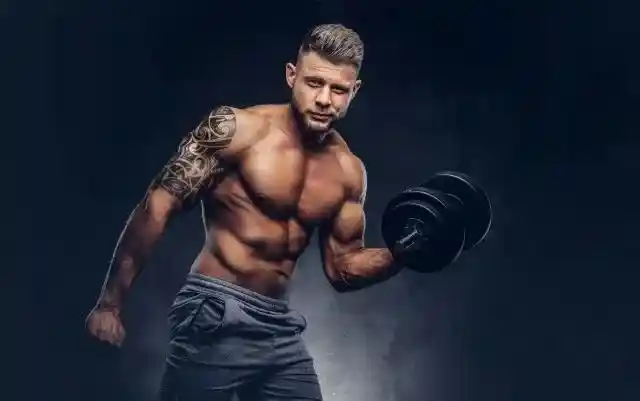
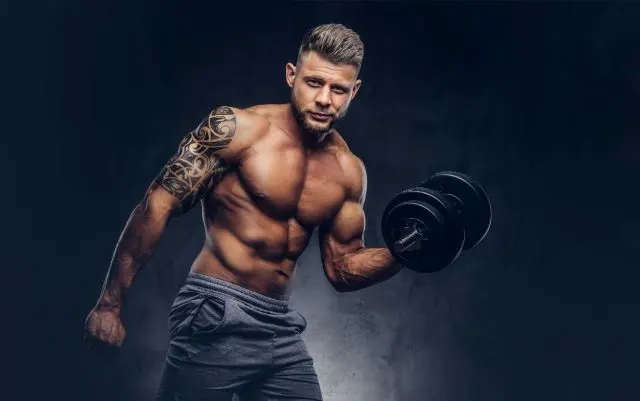
added lazy load to image

diff --git a/staticfiles/CACHE/css/output.b440383ab9a1.css b/staticfiles/CACHE/css/output.b440383ab9a1.css
@@ -1,0 +1,1 @@
+body{font-family:'Montserrat',sans-serif;background-color:black;color:#333;padding-top:80px}.navbar{background-color:black;box-shadow:0 2px 4px rgba(0,0,0,0.1);position:fixed;width:100%;top:0;background-color:rgba(255,255,255,0.9);backdrop-filter:blur(10px);box-shadow:0 2px 4px rgba(0,0,0,0.1);z-index:1000}.navbar-light .navbar-nav .nav-link{color:black}.navbar-light .navbar-nav .nav-link:hover{color:#FF5722}.navbar-toggler{border:none}header.hero-section{background-image:none;background-size:cover;background-position:center;min-height:400px;max-width:100%;object-fit:cover;text-align:center}.container.mt-4 img{width:100%;height:auto;min-height:300px}.container{margin-top:60px;max-width:1200px;margin-top:100px;padding:20px;border-radius:8px;box-shadow:0 4px 8px rgba(0,0,0,0.1)}ul{list-style-type:none}li{display:list-item;text-align:justify;unicode-bidi:isolate}ol,ul{padding-left:0}.card-body{padding:20px}.card-title{font-size:1.5rem}.card-text{font-size:1rem;color:black}.btn{font-size:1.1rem}.mt-3{margin-top:15px}.mb-4{margin-bottom:30px}.card{border:none;box-shadow:0 4px 8px rgba(0,0,0,0.05);transition:transform 0.2s ease-in-out,box-shadow 0.2s;list-style-type:none;border-radius:8px}.card:hover{transform:scale(1.02);box-shadow:0 6px 12px rgba(0,0,0,0.1)}.btn-outline-primary{color:black;background-color:gold;border:none}.btn-outline-primary:hover{color:black;background-color:silver;border:none}.btn-outline-secondary{color:black;background-color:#FF5722;border:none}.btn-outline-secondary:hover{color:black;background-color:silver;border:none}.btn-secondary{color:black;background-color:#FF5722;border:none}.btn-secondary:hover{color:#fff;background-color:#5c636a;border:#565e64}.btn-success{color:#fff;background-color:#FF5722;border:none;color:white}.btn-success:hover{color:silver;background-color:silver;border:none;color:black}.btn-primary{background-color:gold;border:none;margin-right:0px;color:black}.btn-primary:hover{background-color:silver;color:black}.card-img-top{width:300px;height:200px}.newsletter-signup{padding:20px;background-color:#f0f0f0;border-radius:5px;margin-top:30px}.newsletter-signup h2{font-size:24px;margin-bottom:10px;text-align:center}.newsletter-signup p{font-size:16px;margin-bottom:20px;color:black;text-align:center}.newsletter-signup form{display:flex;flex-direction:column}.newsletter-signup input[type="email"]{padding:10px;margin-bottom:10px;border-radius:5px;border:1px solid #ccc}.newsletter-signup button{padding:10px;background-color:silver;color:black;border:none;border-radius:5px;cursor:pointer}.newsletter-signup button:hover{background-color:gold}.spotlight,.subscription,.products,.wish,.community,.profile,.signout,.signin{color:#fff}.review_rule{color:#fff;padding-top:10px}p{margin-bottom:10px;color:#fff}.review_delete{color:black}.modal-header{background-color:silver;position:relative;flex:1 1 auto;padding:1rem;color:black;z-index:1;font-weight:bold}.modal-body{background-color:silver;position:relative;flex:1 1 auto;padding:1rem;z-index:1;color:black}.modal-footer{background-color:silver;position:relative;flex:1 1 auto;padding:1rem;z-index:1;font-weight:bold;display:flex;flex-shrink:0;flex-wrap:nowrap;justify-content:space-around;flex-direction:column}.popup{display:none;position:fixed;left:0;top:0;width:100%;height:100%;background-color:rgba(0,0,0,0.5);z-index:9999;text-align:center}.popup-content{background-color:#fff;border-radius:5px;padding:20px;margin-top:20%;display:inline-block;min-width:300px}.toast-body{padding:.75rem;word-wrap:break-word;background-color:rgba(255,217,0,0.732);color:black}.pop{background-color:gold;color:black}.close-btn{color:#aaa;font-size:28px;font-weight:bold;position:absolute;right:10px;top:0}.close-btn:hover,.close-btn:focus{color:black;text-decoration:none;cursor:pointer}.form-label{margin-bottom:.5rem;color:black;font-weight:bold}.contact{color:black}.cart-container{max-width:800px;margin:50px auto;padding:30px;background-color:#ffffff;border-radius:10px;box-shadow:0 8px 20px rgba(0,0,0,0.1);text-align:center}.cart_status{color:black}.cart-heading{font-size:2rem;margin-bottom:20px;color:#333}.cart-table{width:100%;border-collapse:collapse;margin-bottom:20px;background-color:#f9f9f9;border-radius:8px;overflow:hidden}.cart-table th,.cart-table td{padding:15px;border-bottom:1px solid #ddd;text-align:center}.cart-table th{background-color:#007bff;color:#fff;font-weight:bold}.cart-table tr:last-child td{border-bottom:none}.quantity-column{display:flex;justify-content:center;align-items:center}.quantity-input{width:60px;padding:8px;text-align:center;margin-right:10px;border:1px solid #ccc;border-radius:5px}.button-container{display:flex;flex-direction:column;gap:10px}.button-container-detail{display:flex;flex-direction:row;gap:10px}.button{padding:10px 15px;background-color:#007bff;color:#fff;border:none;border-radius:5px;cursor:pointer;transition:background-color 0.3s ease;font-size:1rem;text-decoration:none;display:inline-block}.button.remove{background-color:#dc3545}.button.update:hover,.button.remove:hover{background-color:#0056b3}.button.remove:hover{background-color:#c82333}.btn-signup{background-color:#fff}.total-cost{font-size:1.5rem;margin:20px 0;color:#333}.checkout-btn-container{text-align:center;margin-top:20px}.stripe-button{background-color:#28a745;padding:12px 25px;font-size:1.2rem;transition:background-color 0.3s ease}.stripe-button:hover{background-color:#218838}.server-error-page{display:flow;text-align:center;min-height:90vh;background-color:black;margin:0}.server-error-page h1{font-size:3rem}.server-error-text{margin-top:10px;color:#fff}.server-error-text a{color:#007bff;text-decoration:none}.server-error-text a:hover{text-decoration:underline}.private-li{padding-left:5%;list-style:disc;color:white}.privacy-text{color:#fff}.title{margin-bottom:.5rem;color:#fff}h1{color:#fff}@media (max-width:768px){.cart-container{padding:20px}.cart-table th,.cart-table td{padding:10px;font-size:0.9rem}.quantity-column{flex-direction:column}.quantity-input{margin-bottom:5px}}.cancel-container,.success-container{text-align:center;background-color:#ffffff;border-radius:8px;box-shadow:0 4px 10px rgba(0,0,0,0.1);padding:50px;max-width:50%;width:100%;align-content:center;flex-wrap:wrap;margin-left:auto;margin-right:auto}.cancel-container h1{font-size:2em;color:#dc3545;margin-bottom:15px}.cancel-container p{font-size:1.1em;margin-bottom:20px;color:#555}.button-group{display:flex;justify-content:space-between;gap:10px}.button-group a{text-decoration:none;color:#ffffff;padding:10px 20px;border-radius:5px;font-weight:bold;transition:background-color 0.3s ease;color:#fff;background-color:#FF5722;border:none;color:black}.button-group a:hover{background-color:#565e64}.button-group a.secondary{background-color:gold;color:black}.button-group a.secondary:hover{background-color:#565e64}.Thanks{color:black}.plan{color:black}.container.community-updates-newsletter{max-width:800px;margin:0 auto;padding:20px;font-family:Arial,sans-serif}.title-newsletter{text-align:center;margin-bottom:20px;color:#fff}.updates-list-newsletter{margin-bottom:40px}.update-newsletter{border-bottom:1px solid #ccc;padding:10px 0}.newsletter-section-newsletter{display:flex;flex-wrap:wrap;gap:20px;justify-content:space-between}.card-newsletter{flex:1 1 calc(50% - 10px);padding:20px;background-color:#f9f9f9;border:1px solid #ddd;border-radius:8px;box-shadow:0 2px 4px rgba(0,0,0,0.1)}.card-newsletter h2{margin-bottom:15px;font-size:1.2em;font-weight:bolder}.card-newsletter p{margin-bottom:20px;font-size:0.9em;color:black}.form-control-newsletter{width:100%;padding:10px;margin-bottom:10px;border:1px solid #ddd;border-radius:4px}.btn-newsletter{padding:10px 20px;font-size:1em;font-weight:bold;border:none;border-radius:4px;cursor:pointer;align-items:center}.btn-primary-newsletter{background-color:gold;color:black}.btn-danger-newsletter{background-color:#FF5722;color:black}.card-newsletter form{display:flex;flex-direction:column;align-items:center}.btn-newsletter{width:auto}.btn-warning:hover{background-color:silver;border:none}.btn-danger:hover{background-color:silver;border:none;color:black}.btn-danger{background-color:lightcoral;border:none;color:black}.profile-text{color:white;margin:15px 0px 20px 0px}.status{background-color:lightgreen;color:black}.resume{margin-bottom:10px;background-color:lightgreen;color:black}.request{margin-bottom:10px;background-color:lightgreen;color:black}.pause_alert{color:black}.pause_alert:hover{background-color:silver}.resume:hover{background-color:silver}.request:hover{background-color:silver}.cancel{color:black;background-color:lightcoral}.cancel:hover{background-color:silver;color:black}.upgrade:hover{background-color:silver;color:black}@media (max-width:768px){.newsletter-section-newsletter{flex-direction:column}.card-newsletter{flex:1 1 100%}}@media (max-width:576px){.container{margin-top:80px}.button-container-detail{display:flex;flex-direction:column;gap:10px}.btn{width:100%}.btn-outline-primary{color:black;background-color:gold;border:none;margin-bottom:30px;margin-top:10px}.btn-outline-secondary{color:black;background-color:#FF5722;border:none;margin-bottom:30px;margin-top:10px}}

diff --git a/staticfiles/CACHE/css/output.c1de74f77de9.css b/staticfiles/CACHE/css/output.c1de74f77de9.css
@@ -1,0 +1,1 @@
+body{font-family:'Montserrat',sans-serif;background-color:black;color:#333;padding-top:80px}.navbar{background-color:black;box-shadow:0 2px 4px rgba(0,0,0,0.1);position:fixed;width:100%;top:0;background-color:rgba(255,255,255,0.9);backdrop-filter:blur(10px);box-shadow:0 2px 4px rgba(0,0,0,0.1);z-index:1000}.navbar-light .navbar-nav .nav-link{color:black}.navbar-light .navbar-nav .nav-link:hover{color:#FF5722}.navbar-toggler{border:none}header.hero-section{background-image:none;background-size:cover;background-position:center;min-height:400px;max-width:100%;object-fit:cover;text-align:center}.container.mt-4 img{width:100%;height:auto;min-height:300px}.container{margin-top:0px;max-width:1200px;margin-top:100px;padding:0px;border-radius:8px;box-shadow:0 4px 8px rgba(0,0,0,0.1)}ul{list-style-type:none}li{display:list-item;text-align:justify;unicode-bidi:isolate}ol,ul{padding-left:0}.card-body{padding:20px}.card-title{font-size:1.5rem}.card-text{font-size:1rem;color:black}.btn{font-size:1.1rem}.mt-3{margin-top:15px}.mb-4{margin-bottom:30px}.card{border:none;box-shadow:0 4px 8px rgba(0,0,0,0.05);transition:transform 0.2s ease-in-out,box-shadow 0.2s;list-style-type:none;border-radius:8px}.card:hover{transform:scale(1.02);box-shadow:0 6px 12px rgba(0,0,0,0.1)}.btn-outline-primary{color:black;background-color:gold;border:none}.btn-outline-primary:hover{color:black;background-color:silver;border:none}.btn-outline-secondary{color:black;background-color:#FF5722;border:none}.btn-outline-secondary:hover{color:black;background-color:silver;border:none}.btn-secondary{color:black;background-color:#FF5722;border:none}.btn-secondary:hover{color:#fff;background-color:#5c636a;border:#565e64}.btn-success{color:#fff;background-color:#FF5722;border:none;color:white}.btn-success:hover{color:silver;background-color:silver;border:none;color:black}.btn-primary{background-color:gold;border:none;margin-right:0px;color:black}.btn-primary:hover{background-color:silver;color:black}.card-img-top{width:300px;height:200px}.newsletter-signup{padding:20px;background-color:#f0f0f0;border-radius:5px;margin-top:30px}.newsletter-signup h2{font-size:24px;margin-bottom:10px;text-align:center}.newsletter-signup p{font-size:16px;margin-bottom:20px;color:black;text-align:center}.newsletter-signup form{display:flex;flex-direction:column}.newsletter-signup input[type="email"]{padding:10px;margin-bottom:10px;border-radius:5px;border:1px solid #ccc}.newsletter-signup button{padding:10px;background-color:silver;color:black;border:none;border-radius:5px;cursor:pointer}.newsletter-signup button:hover{background-color:gold}.spotlight,.subscription,.products,.wish,.community,.profile,.signout,.signin{color:#fff}.review_rule{color:#fff;padding-top:10px}p{margin-bottom:10px;color:#fff}.review_delete{color:black}.modal-header{background-color:silver;position:relative;flex:1 1 auto;padding:1rem;color:black;z-index:1;font-weight:bold}.modal-body{background-color:silver;position:relative;flex:1 1 auto;padding:1rem;z-index:1;color:black}.modal-footer{background-color:silver;position:relative;flex:1 1 auto;padding:1rem;z-index:1;font-weight:bold;display:flex;flex-shrink:0;flex-wrap:nowrap;justify-content:space-around;flex-direction:column}.popup{display:none;position:fixed;left:0;top:0;width:100%;height:100%;background-color:rgba(0,0,0,0.5);z-index:9999;text-align:center}.popup-content{background-color:#fff;border-radius:5px;padding:20px;margin-top:20%;display:inline-block;min-width:300px}.toast-body{padding:.75rem;word-wrap:break-word;background-color:rgba(255,217,0,0.732);color:black}.pop{background-color:gold;color:black}.close-btn{color:#aaa;font-size:28px;font-weight:bold;position:absolute;right:10px;top:0}.close-btn:hover,.close-btn:focus{color:black;text-decoration:none;cursor:pointer}.form-label{margin-bottom:.5rem;color:black;font-weight:bold}.contact{color:black}.cart-container{max-width:800px;margin:50px auto;padding:30px;background-color:#ffffff;border-radius:10px;box-shadow:0 8px 20px rgba(0,0,0,0.1);text-align:center}.cart_status{color:black}.cart-heading{font-size:2rem;margin-bottom:20px;color:#333}.cart-table{width:100%;border-collapse:collapse;margin-bottom:20px;background-color:#f9f9f9;border-radius:8px;overflow:hidden}.cart-table th,.cart-table td{padding:15px;border-bottom:1px solid #ddd;text-align:center}.cart-table th{background-color:#007bff;color:#fff;font-weight:bold}.cart-table tr:last-child td{border-bottom:none}.quantity-column{display:flex;justify-content:center;align-items:center}.quantity-input{width:60px;padding:8px;text-align:center;margin-right:10px;border:1px solid #ccc;border-radius:5px}.button-container{display:flex;flex-direction:column;gap:10px}.button-container-detail{display:flex;flex-direction:row;gap:10px}.button{padding:10px 15px;background-color:#007bff;color:#fff;border:none;border-radius:5px;cursor:pointer;transition:background-color 0.3s ease;font-size:1rem;text-decoration:none;display:inline-block}.button.remove{background-color:#dc3545}.button.update:hover,.button.remove:hover{background-color:#0056b3}.button.remove:hover{background-color:#c82333}.btn-signup{background-color:#fff}.total-cost{font-size:1.5rem;margin:20px 0;color:#333}.checkout-btn-container{text-align:center;margin-top:20px}.stripe-button{background-color:#28a745;padding:12px 25px;font-size:1.2rem;transition:background-color 0.3s ease}.stripe-button:hover{background-color:#218838}.server-error-page{display:flow;text-align:center;min-height:90vh;background-color:black;margin:0}.server-error-page h1{font-size:3rem}.server-error-text{margin-top:10px;color:#fff}.server-error-text a{color:#007bff;text-decoration:none}.server-error-text a:hover{text-decoration:underline}.private-li{padding-left:5%;list-style:disc;color:white}.privacy-text{color:#fff}.title{margin-bottom:.5rem;color:#fff}h1{color:#fff}@media (max-width:768px){.cart-container{padding:20px}.cart-table th,.cart-table td{padding:10px;font-size:0.9rem}.quantity-column{flex-direction:column}.quantity-input{margin-bottom:5px}}.cancel-container,.success-container{text-align:center;background-color:#ffffff;border-radius:8px;box-shadow:0 4px 10px rgba(0,0,0,0.1);padding:50px;max-width:50%;width:100%;align-content:center;flex-wrap:wrap;margin-left:auto;margin-right:auto}.cancel-container h1{font-size:2em;color:#dc3545;margin-bottom:15px}.cancel-container p{font-size:1.1em;margin-bottom:20px;color:#555}.button-group{display:flex;justify-content:space-between;gap:10px}.button-group a{text-decoration:none;color:#ffffff;padding:10px 20px;border-radius:5px;font-weight:bold;transition:background-color 0.3s ease;color:#fff;background-color:#FF5722;border:none;color:black}.button-group a:hover{background-color:#565e64}.button-group a.secondary{background-color:gold;color:black}.button-group a.secondary:hover{background-color:#565e64}.Thanks{color:black}.plan{color:black}.container.community-updates-newsletter{max-width:800px;margin:0 auto;padding:20px;font-family:Arial,sans-serif}.title-newsletter{text-align:center;margin-bottom:20px;color:#fff}.updates-list-newsletter{margin-bottom:40px}.update-newsletter{border-bottom:1px solid #ccc;padding:10px 0}.newsletter-section-newsletter{display:flex;flex-wrap:wrap;gap:20px;justify-content:space-between}.card-newsletter{flex:1 1 calc(50% - 10px);padding:20px;background-color:#f9f9f9;border:1px solid #ddd;border-radius:8px;box-shadow:0 2px 4px rgba(0,0,0,0.1)}.card-newsletter h2{margin-bottom:15px;font-size:1.2em;font-weight:bolder}.card-newsletter p{margin-bottom:20px;font-size:0.9em;color:black}.form-control-newsletter{width:100%;padding:10px;margin-bottom:10px;border:1px solid #ddd;border-radius:4px}.btn-newsletter{padding:10px 20px;font-size:1em;font-weight:bold;border:none;border-radius:4px;cursor:pointer;align-items:center}.btn-primary-newsletter{background-color:gold;color:black}.btn-danger-newsletter{background-color:#FF5722;color:black}.card-newsletter form{display:flex;flex-direction:column;align-items:center}.btn-newsletter{width:auto}.btn-warning:hover{background-color:silver;border:none}.btn-danger:hover{background-color:silver;border:none;color:black}.btn-danger{background-color:lightcoral;border:none;color:black}.profile-text{color:white;margin:15px 0px 20px 0px}.status{background-color:lightgreen;color:black}.resume{margin-bottom:10px;background-color:lightgreen;color:black}.request{margin-bottom:10px;background-color:lightgreen;color:black}.pause_alert{color:black}.pause_alert:hover{background-color:silver}.resume:hover{background-color:silver}.request:hover{background-color:silver}.cancel{color:black;background-color:lightcoral}.cancel:hover{background-color:silver;color:black}.upgrade:hover{background-color:silver;color:black}@media (max-width:768px){.newsletter-section-newsletter{flex-direction:column}.card-newsletter{flex:1 1 100%}}@media (max-width:576px){.container{margin-top:80px}.button-container-detail{display:flex;flex-direction:column;gap:10px}.btn{width:100%}.btn-outline-primary{color:black;background-color:gold;border:none;margin-bottom:30px;margin-top:10px}.btn-outline-secondary{color:black;background-color:#FF5722;border:none;margin-bottom:30px;margin-top:10px}}

diff --git a/staticfiles/CACHE/css/output.6680e89b61da.css b/staticfiles/CACHE/css/output.6680e89b61da.css
@@ -1,0 +1,1 @@
+body{font-family:'Montserrat',sans-serif;background-color:black;color:#333;padding-top:80px}.navbar{background-color:black;box-shadow:0 2px 4px rgba(0,0,0,0.1);position:fixed;width:100%;top:0;background-color:rgba(255,255,255,0.9);backdrop-filter:blur(10px);box-shadow:0 2px 4px rgba(0,0,0,0.1);z-index:1000}.navbar-light .navbar-nav .nav-link{color:black}.navbar-light .navbar-nav .nav-link:hover{color:#FF5722}.navbar-toggler{border:none}header.hero-section{background-image:none;background-size:cover;background-position:center;min-height:400px;max-width:100%}.container.mt-4 img{width:100%;height:auto;min-height:300px}.container{margin-top:60px;max-width:1200px;margin-top:100px;padding:20px;border-radius:8px;box-shadow:0 4px 8px rgba(0,0,0,0.1)}ul{list-style-type:none}li{display:list-item;text-align:justify;unicode-bidi:isolate}ol,ul{padding-left:0}.card-body{padding:20px}.card-title{font-size:1.5rem}.card-text{font-size:1rem;color:black}.btn{font-size:1.1rem}.mt-3{margin-top:15px}.mb-4{margin-bottom:30px}.card{border:none;box-shadow:0 4px 8px rgba(0,0,0,0.05);transition:transform 0.2s ease-in-out,box-shadow 0.2s;list-style-type:none;border-radius:8px}.card:hover{transform:scale(1.02);box-shadow:0 6px 12px rgba(0,0,0,0.1)}.btn-outline-primary{color:black;background-color:gold;border:none}.btn-outline-primary:hover{color:black;background-color:silver;border:none}.btn-outline-secondary{color:black;background-color:#FF5722;border:none}.btn-outline-secondary:hover{color:black;background-color:silver;border:none}.btn-secondary{color:black;background-color:#FF5722;border:none}.btn-secondary:hover{color:#fff;background-color:#5c636a;border:#565e64}.btn-success{color:#fff;background-color:#FF5722;border:none;color:white}.btn-success:hover{color:silver;background-color:silver;border:none;color:black}.btn-primary{background-color:gold;border:none;margin-right:0px;color:black}.btn-primary:hover{background-color:silver;color:black}.card-img-top{width:300px;height:200px}.newsletter-signup{padding:20px;background-color:#f0f0f0;border-radius:5px;margin-top:30px}.newsletter-signup h2{font-size:24px;margin-bottom:10px;text-align:center}.newsletter-signup p{font-size:16px;margin-bottom:20px;color:black;text-align:center}.newsletter-signup form{display:flex;flex-direction:column}.newsletter-signup input[type="email"]{padding:10px;margin-bottom:10px;border-radius:5px;border:1px solid #ccc}.newsletter-signup button{padding:10px;background-color:silver;color:black;border:none;border-radius:5px;cursor:pointer}.newsletter-signup button:hover{background-color:gold}.spotlight,.subscription,.products,.wish,.community,.profile,.signout,.signin{color:#fff}.review_rule{color:#fff;padding-top:10px}p{margin-bottom:10px;color:#fff}.review_delete{color:black}.modal-header{background-color:silver;position:relative;flex:1 1 auto;padding:1rem;color:black;z-index:1;font-weight:bold}.modal-body{background-color:silver;position:relative;flex:1 1 auto;padding:1rem;z-index:1;color:black}.modal-footer{background-color:silver;position:relative;flex:1 1 auto;padding:1rem;z-index:1;font-weight:bold;display:flex;flex-shrink:0;flex-wrap:nowrap;justify-content:space-around;flex-direction:column}.popup{display:none;position:fixed;left:0;top:0;width:100%;height:100%;background-color:rgba(0,0,0,0.5);z-index:9999;text-align:center}.popup-content{background-color:#fff;border-radius:5px;padding:20px;margin-top:20%;display:inline-block;min-width:300px}.toast-body{padding:.75rem;word-wrap:break-word;background-color:rgba(255,217,0,0.732);color:black}.pop{background-color:gold;color:black}.close-btn{color:#aaa;font-size:28px;font-weight:bold;position:absolute;right:10px;top:0}.close-btn:hover,.close-btn:focus{color:black;text-decoration:none;cursor:pointer}.form-label{margin-bottom:.5rem;color:black;font-weight:bold}.contact{color:black}.cart-container{max-width:800px;margin:50px auto;padding:30px;background-color:#ffffff;border-radius:10px;box-shadow:0 8px 20px rgba(0,0,0,0.1);text-align:center}.cart_status{color:black}.cart-heading{font-size:2rem;margin-bottom:20px;color:#333}.cart-table{width:100%;border-collapse:collapse;margin-bottom:20px;background-color:#f9f9f9;border-radius:8px;overflow:hidden}.cart-table th,.cart-table td{padding:15px;border-bottom:1px solid #ddd;text-align:center}.cart-table th{background-color:#007bff;color:#fff;font-weight:bold}.cart-table tr:last-child td{border-bottom:none}.quantity-column{display:flex;justify-content:center;align-items:center}.quantity-input{width:60px;padding:8px;text-align:center;margin-right:10px;border:1px solid #ccc;border-radius:5px}.button-container{display:flex;flex-direction:column;gap:10px}.button-container-detail{display:flex;flex-direction:row;gap:10px}.button{padding:10px 15px;background-color:#007bff;color:#fff;border:none;border-radius:5px;cursor:pointer;transition:background-color 0.3s ease;font-size:1rem;text-decoration:none;display:inline-block}.button.remove{background-color:#dc3545}.button.update:hover,.button.remove:hover{background-color:#0056b3}.button.remove:hover{background-color:#c82333}.btn-signup{background-color:#fff}.total-cost{font-size:1.5rem;margin:20px 0;color:#333}.checkout-btn-container{text-align:center;margin-top:20px}.stripe-button{background-color:#28a745;padding:12px 25px;font-size:1.2rem;transition:background-color 0.3s ease}.stripe-button:hover{background-color:#218838}.server-error-page{display:flow;text-align:center;min-height:90vh;background-color:black;margin:0}.server-error-page h1{font-size:3rem}.server-error-text{margin-top:10px;color:#fff}.server-error-text a{color:#007bff;text-decoration:none}.server-error-text a:hover{text-decoration:underline}.private-li{padding-left:5%;list-style:disc;color:white}.privacy-text{color:#fff}.title{margin-bottom:.5rem;color:#fff}h1{color:#fff}@media (max-width:768px){.cart-container{padding:20px}.cart-table th,.cart-table td{padding:10px;font-size:0.9rem}.quantity-column{flex-direction:column}.quantity-input{margin-bottom:5px}}.cancel-container,.success-container{text-align:center;background-color:#ffffff;border-radius:8px;box-shadow:0 4px 10px rgba(0,0,0,0.1);padding:50px;max-width:50%;width:100%;align-content:center;flex-wrap:wrap;margin-left:auto;margin-right:auto}.cancel-container h1{font-size:2em;color:#dc3545;margin-bottom:15px}.cancel-container p{font-size:1.1em;margin-bottom:20px;color:#555}.button-group{display:flex;justify-content:space-between;gap:10px}.button-group a{text-decoration:none;color:#ffffff;padding:10px 20px;border-radius:5px;font-weight:bold;transition:background-color 0.3s ease;color:#fff;background-color:#FF5722;border:none;color:black}.button-group a:hover{background-color:#565e64}.button-group a.secondary{background-color:gold;color:black}.button-group a.secondary:hover{background-color:#565e64}.Thanks{color:black}.plan{color:black}.container.community-updates-newsletter{max-width:800px;margin:0 auto;padding:20px;font-family:Arial,sans-serif}.title-newsletter{text-align:center;margin-bottom:20px;color:#fff}.updates-list-newsletter{margin-bottom:40px}.update-newsletter{border-bottom:1px solid #ccc;padding:10px 0}.newsletter-section-newsletter{display:flex;flex-wrap:wrap;gap:20px;justify-content:space-between}.card-newsletter{flex:1 1 calc(50% - 10px);padding:20px;background-color:#f9f9f9;border:1px solid #ddd;border-radius:8px;box-shadow:0 2px 4px rgba(0,0,0,0.1)}.card-newsletter h2{margin-bottom:15px;font-size:1.2em;font-weight:bolder}.card-newsletter p{margin-bottom:20px;font-size:0.9em;color:black}.form-control-newsletter{width:100%;padding:10px;margin-bottom:10px;border:1px solid #ddd;border-radius:4px}.btn-newsletter{padding:10px 20px;font-size:1em;font-weight:bold;border:none;border-radius:4px;cursor:pointer;align-items:center}.btn-primary-newsletter{background-color:gold;color:black}.btn-danger-newsletter{background-color:#FF5722;color:black}.card-newsletter form{display:flex;flex-direction:column;align-items:center}.btn-newsletter{width:auto}.btn-warning:hover{background-color:silver;border:none}.btn-danger:hover{background-color:silver;border:none;color:black}.btn-danger{background-color:lightcoral;border:none;color:black}.profile-text{color:white;margin:15px 0px 20px 0px}.status{background-color:lightgreen;color:black}.resume{margin-bottom:10px;background-color:lightgreen;color:black}.request{margin-bottom:10px;background-color:lightgreen;color:black}.pause_alert{color:black}.pause_alert:hover{background-color:silver}.resume:hover{background-color:silver}.request:hover{background-color:silver}.cancel{color:black;background-color:lightcoral}.cancel:hover{background-color:silver;color:black}.upgrade:hover{background-color:silver;color:black}@media (max-width:768px){.newsletter-section-newsletter{flex-direction:column}.card-newsletter{flex:1 1 100%}}@media (max-width:576px){.container{margin-top:80px}.button-container-detail{display:flex;flex-direction:column;gap:10px}.btn{width:100%}.btn-outline-primary{color:black;background-color:gold;border:none;margin-bottom:30px;margin-top:10px}.btn-outline-secondary{color:black;background-color:#FF5722;border:none;margin-bottom:30px;margin-top:10px}}

diff --git a/staticfiles/CACHE/css/output.b4f239bf4b85.css b/staticfiles/CACHE/css/output.b4f239bf4b85.css
@@ -1,0 +1,1 @@
+body{font-family:'Montserrat',sans-serif;background-color:black;color:#333;padding-top:80px}.navbar{background-color:black;box-shadow:0 2px 4px rgba(0,0,0,0.1);position:fixed;width:100%;top:0;background-color:rgba(255,255,255,0.9);backdrop-filter:blur(10px);box-shadow:0 2px 4px rgba(0,0,0,0.1);z-index:1000}.navbar-light .navbar-nav .nav-link{color:black}.navbar-light .navbar-nav .nav-link:hover{color:#FF5722}.navbar-toggler{border:none}header.hero-section{background-image:none}.container.mt-4 img{width:100%;height:auto;min-height:300px}.container{margin-top:60px;max-width:1200px;margin-top:100px;padding:20px;border-radius:8px;box-shadow:0 4px 8px rgba(0,0,0,0.1)}ul{list-style-type:none}li{display:list-item;text-align:justify;unicode-bidi:isolate}ol,ul{padding-left:0}.card-body{padding:20px}.card-title{font-size:1.5rem}.card-text{font-size:1rem;color:black}.btn{font-size:1.1rem}.mt-3{margin-top:15px}.mb-4{margin-bottom:30px}.card{border:none;box-shadow:0 4px 8px rgba(0,0,0,0.05);transition:transform 0.2s ease-in-out,box-shadow 0.2s;list-style-type:none;border-radius:8px}.card:hover{transform:scale(1.02);box-shadow:0 6px 12px rgba(0,0,0,0.1)}.btn-outline-primary{color:black;background-color:gold;border:none}.btn-outline-primary:hover{color:black;background-color:silver;border:none}.btn-outline-secondary{color:black;background-color:#FF5722;border:none}.btn-outline-secondary:hover{color:black;background-color:silver;border:none}.btn-secondary{color:black;background-color:#FF5722;border:none}.btn-secondary:hover{color:#fff;background-color:#5c636a;border:#565e64}.btn-success{color:#fff;background-color:#FF5722;border:none;color:white}.btn-success:hover{color:silver;background-color:silver;border:none;color:black}.btn-primary{background-color:gold;border:none;margin-right:0px;color:black}.btn-primary:hover{background-color:silver;color:black}.card-img-top{width:300px;height:200px}.newsletter-signup{padding:20px;background-color:#f0f0f0;border-radius:5px;margin-top:30px}.newsletter-signup h2{font-size:24px;margin-bottom:10px;text-align:center}.newsletter-signup p{font-size:16px;margin-bottom:20px;color:black;text-align:center}.newsletter-signup form{display:flex;flex-direction:column}.newsletter-signup input[type="email"]{padding:10px;margin-bottom:10px;border-radius:5px;border:1px solid #ccc}.newsletter-signup button{padding:10px;background-color:silver;color:black;border:none;border-radius:5px;cursor:pointer}.newsletter-signup button:hover{background-color:gold}.spotlight,.subscription,.products,.wish,.community,.profile,.signout,.signin{color:#fff}.review_rule{color:#fff;padding-top:10px}p{margin-bottom:10px;color:#fff}.review_delete{color:black}.modal-header{background-color:silver;position:relative;flex:1 1 auto;padding:1rem;color:black;z-index:1;font-weight:bold}.modal-body{background-color:silver;position:relative;flex:1 1 auto;padding:1rem;z-index:1;color:black}.modal-footer{background-color:silver;position:relative;flex:1 1 auto;padding:1rem;z-index:1;font-weight:bold;display:flex;flex-shrink:0;flex-wrap:nowrap;justify-content:space-around;flex-direction:column}.popup{display:none;position:fixed;left:0;top:0;width:100%;height:100%;background-color:rgba(0,0,0,0.5);z-index:9999;text-align:center}.popup-content{background-color:#fff;border-radius:5px;padding:20px;margin-top:20%;display:inline-block;min-width:300px}.toast-body{padding:.75rem;word-wrap:break-word;background-color:rgba(255,217,0,0.732);color:black}.pop{background-color:gold;color:black}.close-btn{color:#aaa;font-size:28px;font-weight:bold;position:absolute;right:10px;top:0}.close-btn:hover,.close-btn:focus{color:black;text-decoration:none;cursor:pointer}.form-label{margin-bottom:.5rem;color:black;font-weight:bold}.contact{color:black}.cart-container{max-width:800px;margin:50px auto;padding:30px;background-color:#ffffff;border-radius:10px;box-shadow:0 8px 20px rgba(0,0,0,0.1);text-align:center}.cart_status{color:black}.cart-heading{font-size:2rem;margin-bottom:20px;color:#333}.cart-table{width:100%;border-collapse:collapse;margin-bottom:20px;background-color:#f9f9f9;border-radius:8px;overflow:hidden}.cart-table th,.cart-table td{padding:15px;border-bottom:1px solid #ddd;text-align:center}.cart-table th{background-color:#007bff;color:#fff;font-weight:bold}.cart-table tr:last-child td{border-bottom:none}.quantity-column{display:flex;justify-content:center;align-items:center}.quantity-input{width:60px;padding:8px;text-align:center;margin-right:10px;border:1px solid #ccc;border-radius:5px}.button-container{display:flex;flex-direction:column;gap:10px}.button-container-detail{display:flex;flex-direction:row;gap:10px}.button{padding:10px 15px;background-color:#007bff;color:#fff;border:none;border-radius:5px;cursor:pointer;transition:background-color 0.3s ease;font-size:1rem;text-decoration:none;display:inline-block}.button.remove{background-color:#dc3545}.button.update:hover,.button.remove:hover{background-color:#0056b3}.button.remove:hover{background-color:#c82333}.btn-signup{background-color:#fff}.total-cost{font-size:1.5rem;margin:20px 0;color:#333}.checkout-btn-container{text-align:center;margin-top:20px}.stripe-button{background-color:#28a745;padding:12px 25px;font-size:1.2rem;transition:background-color 0.3s ease}.stripe-button:hover{background-color:#218838}.server-error-page{display:flow;text-align:center;min-height:90vh;background-color:black;margin:0}.server-error-page h1{font-size:3rem}.server-error-text{margin-top:10px;color:#fff}.server-error-text a{color:#007bff;text-decoration:none}.server-error-text a:hover{text-decoration:underline}.private-li{padding-left:5%;list-style:disc;color:white}.privacy-text{color:#fff}.title{margin-bottom:.5rem;color:#fff}h1{color:#fff}@media (max-width:768px){.cart-container{padding:20px}.cart-table th,.cart-table td{padding:10px;font-size:0.9rem}.quantity-column{flex-direction:column}.quantity-input{margin-bottom:5px}}.cancel-container,.success-container{text-align:center;background-color:#ffffff;border-radius:8px;box-shadow:0 4px 10px rgba(0,0,0,0.1);padding:50px;max-width:50%;width:100%;align-content:center;flex-wrap:wrap;margin-left:auto;margin-right:auto}.cancel-container h1{font-size:2em;color:#dc3545;margin-bottom:15px}.cancel-container p{font-size:1.1em;margin-bottom:20px;color:#555}.button-group{display:flex;justify-content:space-between;gap:10px}.button-group a{text-decoration:none;color:#ffffff;padding:10px 20px;border-radius:5px;font-weight:bold;transition:background-color 0.3s ease;color:#fff;background-color:#FF5722;border:none;color:black}.button-group a:hover{background-color:#565e64}.button-group a.secondary{background-color:gold;color:black}.button-group a.secondary:hover{background-color:#565e64}.Thanks{color:black}.plan{color:black}.container.community-updates-newsletter{max-width:800px;margin:0 auto;padding:20px;font-family:Arial,sans-serif}.title-newsletter{text-align:center;margin-bottom:20px;color:#fff}.updates-list-newsletter{margin-bottom:40px}.update-newsletter{border-bottom:1px solid #ccc;padding:10px 0}.newsletter-section-newsletter{display:flex;flex-wrap:wrap;gap:20px;justify-content:space-between}.card-newsletter{flex:1 1 calc(50% - 10px);padding:20px;background-color:#f9f9f9;border:1px solid #ddd;border-radius:8px;box-shadow:0 2px 4px rgba(0,0,0,0.1)}.card-newsletter h2{margin-bottom:15px;font-size:1.2em;font-weight:bolder}.card-newsletter p{margin-bottom:20px;font-size:0.9em;color:black}.form-control-newsletter{width:100%;padding:10px;margin-bottom:10px;border:1px solid #ddd;border-radius:4px}.btn-newsletter{padding:10px 20px;font-size:1em;font-weight:bold;border:none;border-radius:4px;cursor:pointer;align-items:center}.btn-primary-newsletter{background-color:gold;color:black}.btn-danger-newsletter{background-color:#FF5722;color:black}.card-newsletter form{display:flex;flex-direction:column;align-items:center}.btn-newsletter{width:auto}.btn-warning:hover{background-color:silver;border:none}.btn-danger:hover{background-color:silver;border:none;color:black}.btn-danger{background-color:lightcoral;border:none;color:black}.profile-text{color:white;margin:15px 0px 20px 0px}.status{background-color:lightgreen;color:black}.resume{margin-bottom:10px;background-color:lightgreen;color:black}.request{margin-bottom:10px;background-color:lightgreen;color:black}.pause_alert{color:black}.pause_alert:hover{background-color:silver}.resume:hover{background-color:silver}.request:hover{background-color:silver}.cancel{color:black;background-color:lightcoral}.cancel:hover{background-color:silver;color:black}.upgrade:hover{background-color:silver;color:black}@media (max-width:768px){.newsletter-section-newsletter{flex-direction:column}.card-newsletter{flex:1 1 100%}}@media (max-width:576px){.container{margin-top:80px}.button-container-detail{display:flex;flex-direction:column;gap:10px}.btn{width:100%}.btn-outline-primary{color:black;background-color:gold;border:none;margin-bottom:30px;margin-top:10px}.btn-outline-secondary{color:black;background-color:#FF5722;border:none;margin-bottom:30px;margin-top:10px}}

diff --git a/templates/base.html b/templates/base.html
@@ -8,10 +8,10 @@
     <meta name="viewport" content="width=device-width, initial-scale=1.0">
    <!-- <link rel="preconnect" href="https://cdnjs.cloudflare.com" crossorigin>-->
    <link href="https://cdn.jsdelivr.net/npm/bootstrap@5.3.0/dist/css/bootstrap.min.css" rel="stylesheet">
-   <link href="https://cdn.jsdelivr.net/npm/bootstrap-icons/font/bootstrap-icons.css" rel="stylesheet">
+  <!-- <link href="https://cdn.jsdelivr.net/npm/bootstrap-icons/font/bootstrap-icons.css" rel="stylesheet">-->
  <!---<link rel="stylesheet" href="https://cdnjs.cloudflare.com/ajax/libs/font-awesome/6.5.2/css/all.min.css">-->
+ 
 
- <link rel="preload" as="image" href="/static/images/hero-bg.webp">
    {% compress css %}
    <link rel="stylesheet" href="{% static 'css/style.css' %}">
    {% block extra_css %}{% endblock %}
@@ -176,9 +176,10 @@
     <!-- Additional Scripts -->
     {% block extra_scripts %}
 <!--    <script src="https://cdn.jsdelivr.net/bootstrap.bundle.min.js" defer></script>-->
-    <script src="https://code.jquery.com/jquery-3.6.0.min.js"></script>
+
+  <script src="https://code.jquery.com/jquery-3.6.0.min.js"></script>
   <!--  <script src="https://cdn.jsdelivr.net/npm/bootstrap@5.3.0/dist/js/bootstrap.bundle.min.js"></script>-->
-{% compress js %}    
+  {% compress js %}  
     <script src="{% static 'fitness/js/contact.js' %}"></script>
     <script src="{% static 'fitness/js/modal.js' %}"></script>
     {% endcompress %}

diff --git a/fitness/templates/fitness/home.html b/fitness/templates/fitness/home.html
@@ -19,13 +19,16 @@
 <meta name="twitter:title" content="Fitness Center - Your Journey to Health and Fitness Starts Here">
 <meta name="twitter:description" content="Shop high-quality fitness products, explore spotlight items, and choose subscriptions for a healthier lifestyle.">
 <meta name="twitter:image" content="{% static 'images/hero-bg.webp' %}">
+<link rel="preload" href="/static/images/hero-bg.webp?6226785dca0b" as="image">
 </head>
 
 {% block content %}
 
 <main>
     <!-- Hero Section -->
-    <header class="hero-section text-white text-center py-5">        
+   
+    <header class="hero-section" loading="lazy" style="background-image: url(/static/images/hero-bg.webp?6226785dca0b);">
+     
         <div class="container">
             <h1 class="display-4">Welcome to Our Fitness Center</h1>
             <p class="lead">Your journey to health and fitness starts here.</p>

diff --git a/staticfiles/css/style.a9fb5b0dd033.css b/staticfiles/css/style.a9fb5b0dd033.css
@@ -34,13 +34,11 @@ body {
 /*Home*/
 header.hero-section {
   background-image: none;
-  background-size: cover;
-  background-position: center;
-  min-height: 400px;
-  max-width: 100%;
+  background-size: cover; background-position: center; min-height: 400px; max-width: 100%;
   object-fit: cover;
   text-align: center;
 }
+
 .container.mt-4 img {
   width: 100%;
   height: auto; /* Adjust as per aspect ratio */
@@ -50,10 +48,10 @@ header.hero-section {
 
 /* Container */
 .container {
-  margin-top: 0px; 
+  margin-top: 60px; 
   max-width: 1200px;
   margin-top: 100px; 
-  padding: 0px;
+  padding: 20px;
 
   border-radius: 8px;
   box-shadow: 0 4px 8px rgba(0, 0, 0, 0.1);

diff --git a/staticfiles/css/style.2abb3d9a5cef.css b/staticfiles/css/style.2abb3d9a5cef.css
@@ -34,13 +34,9 @@ body {
 /*Home*/
 header.hero-section {
   background-image: none;
-  background-size: cover;
-  background-position: center;
-  min-height: 400px;
-  max-width: 100%;
-  object-fit: cover;
-  text-align: center;
+  background-size: cover; background-position: center; min-height: 400px; max-width: 100%;
 }
+
 .container.mt-4 img {
   width: 100%;
   height: auto; /* Adjust as per aspect ratio */
@@ -50,10 +46,10 @@ header.hero-section {
 
 /* Container */
 .container {
-  margin-top: 0px; 
+  margin-top: 60px; 
   max-width: 1200px;
   margin-top: 100px; 
-  padding: 0px;
+  padding: 20px;
 
   border-radius: 8px;
   box-shadow: 0 4px 8px rgba(0, 0, 0, 0.1);

diff --git a/staticfiles/css/style.css b/staticfiles/css/style.css
@@ -33,13 +33,14 @@ body {
 
 /*Home*/
 header.hero-section {
-  background-image:url(../images/hero-bg.webp);
+  background-image: none;
   background-size: cover;
   background-position: center;
+  min-height: 400px;
+  max-width: 100%;
   object-fit: cover;
-  min-height: 400px; 
+  text-align: center;
 }
-
 .container.mt-4 img {
   width: 100%;
   height: auto; /* Adjust as per aspect ratio */
@@ -49,10 +50,10 @@ header.hero-section {
 
 /* Container */
 .container {
-  margin-top: 60px; 
+  margin-top: 0px; 
   max-width: 1200px;
   margin-top: 100px; 
-  padding: 20px;
+  padding: 0px;
 
   border-radius: 8px;
   box-shadow: 0 4px 8px rgba(0, 0, 0, 0.1);

diff --git a/staticfiles/css/style.68c30be816bb.css b/staticfiles/css/style.68c30be816bb.css
@@ -34,13 +34,8 @@ body {
 /*Home*/
 header.hero-section {
   background-image: none;
-  background-size: cover;
-  background-position: center;
-  min-height: 400px;
-  max-width: 100%;
-  object-fit: cover;
-  text-align: center;
 }
+
 .container.mt-4 img {
   width: 100%;
   height: auto; /* Adjust as per aspect ratio */
@@ -50,10 +45,10 @@ header.hero-section {
 
 /* Container */
 .container {
-  margin-top: 0px; 
+  margin-top: 60px; 
   max-width: 1200px;
   margin-top: 100px; 
-  padding: 0px;
+  padding: 20px;
 
   border-radius: 8px;
   box-shadow: 0 4px 8px rgba(0, 0, 0, 0.1);

diff --git a/staticfiles/css/style.ae663af68fc8.css b/staticfiles/css/style.ae663af68fc8.css
@@ -50,10 +50,10 @@ header.hero-section {
 
 /* Container */
 .container {
-  margin-top: 0px; 
+  margin-top: 60px; 
   max-width: 1200px;
   margin-top: 100px; 
-  padding: 0px;
+  padding: 20px;
 
   border-radius: 8px;
   box-shadow: 0 4px 8px rgba(0, 0, 0, 0.1);
